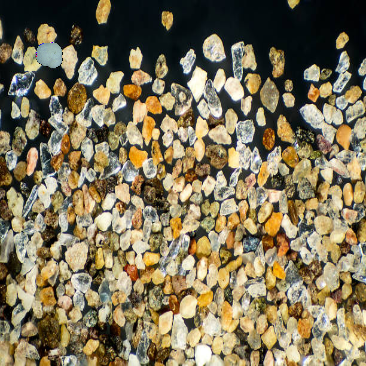
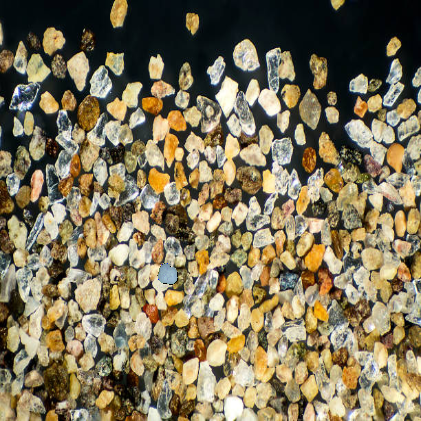
new tests, blur image and updated recomended scale

diff --git a/criandoimagens.py b/criandoimagens.py
@@ -3,8 +3,11 @@ import numpy as np
 import random
 
 # Carregar a imagem original e a imagem de fundo
-img = cv2.imread('/home/thiago/img_micra/MD022508_training_set/Planktic/MD022508-0-0-Planktic-0007.jpg')
+img = cv2.imread('/home/thiago/img_micra/MD022508_training_set/Planktic/MD022508-0-0-Planktic-0005.jpg')
 fundo = cv2.imread('/home/thiago/img_micra/fundo/istockphoto-1209961067-612x612.jpg')
+
+#blur image
+img = cv2.GaussianBlur(img, (5, 5), 0)
 
 # Converter a imagem original para escala de cinza
 gray = cv2.cvtColor(img, cv2.COLOR_BGR2GRAY)
@@ -22,7 +25,7 @@ fundo_redimensionado = cv2.resize(fundo, (img.shape[1], img.shape[0]))
 img_cortada = cv2.bitwise_and(img, img, mask=mask)
 
 # Redimensionar a imagem cortada e a máscara
-escala = input("Digite a escala da imagem cortada - Recomendado 0.1\n")
+escala = input("Digite a escala da imagem cortada - Recomendado 0.07\n")
 escala = float(escala)
 largura = int(img_cortada.shape[1] * escala)
 altura = int(img_cortada.shape[0] * escala)
